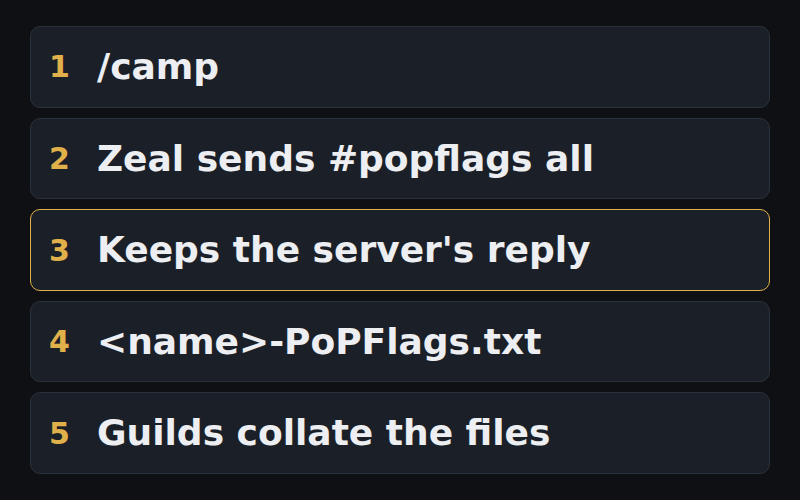
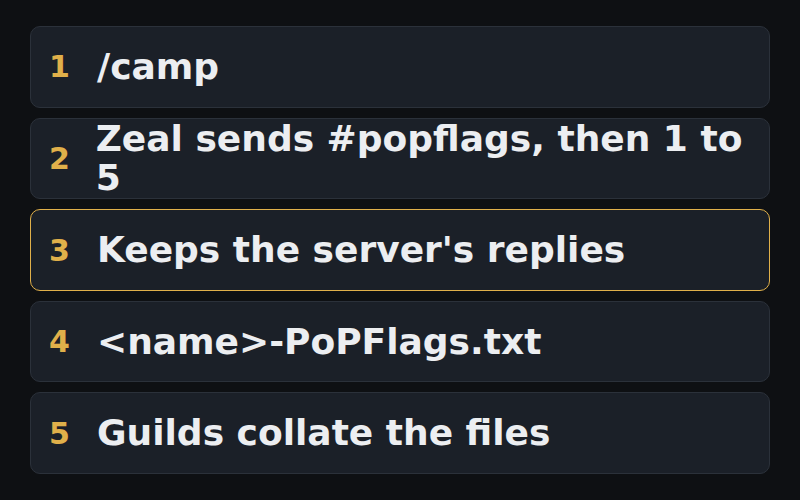
docs: PoP flags export — first in-game run, overview + tiers 1-5
The guild lead's first run wrote the file with one server line, "The all
option is restricted to server staff." The export now sends #popflags and
#popflags 1-5 (fork ef17b00, test-all 67bea01). Post, test cases and
DECISIONS §227 updated with the result and the server code it rests on.

Claude-Session: https://claude.ai/code/session_01Uq6P6RYLtiKKfy5UWjT7AX

Changed region(s): [[0.125, 0.24, 0.9375, 0.39], [0.6875, 0.48, 0.7812, 0.54]]

diff --git a/showcase/tools/hotkey-socials.py b/showcase/tools/hotkey-socials.py
@@ -48,10 +48,12 @@ md = [f"# {ME} test hotkeys — {BUILD}", "",
       "1. Install the test build: Mimic → Settings → Zeal → Test build → Install. Put `EUR.tga` from "
       "wolfpack.quest/zeal-icons in `EverQuest\\uifiles\\zeal\\tagicons\\` (for TI2).",
       f"2. **Log {ME} out to character select or close EQ** (EQ rewrites the file when you camp).",
-      f"3. Open `EverQuest\\{ME}_pq.proj.ini` in Notepad and find `[Socials]`. **Delete every `Page{first}…` "
-      f"to `Page{last}…` line** (this replaces the earlier page 7–10 file too), then paste everything from "
-      f"`{ME}_test_socials.ini` under `[Socials]` (skip its first line). No `[Socials]` but a "
-      f"`Socials_{ME}_pq.proj.ini` file? Paste there instead.",
+      f"3. Open `EverQuest\\{ME}_pq.proj.ini` in Notepad (not `UI_{ME}_pq.proj.ini`). The format is the same "
+      "`Page<P>Button<N>Name / Color / Line1-5` your other characters use under `[Socials]`.\n"
+      "   - **A new character has no `[Socials]` section** (only `[Friends]` and `[Ignored]`): paste the whole "
+      f"`{ME}_test_socials.ini`, its `[Socials]` line included, at the end of the file.\n"
+      f"   - **It already has `[Socials]`:** delete every `Page{first}…` to `Page{last}…` line, then paste "
+      "everything except the first line under `[Socials]`.",
       f"4. Log in, `/log on`, open Actions → Socials, page {first}. Press **LEAVE x5**, then **JOIN**: the "
       "test channel is now `/1`.", "",
       "Afterwards, camp or relog to get your normal channels back. **Rejoin the Zeal tag channel before any "

diff --git a/showcase/popflags-export/TEST-CASES.md b/showcase/popflags-export/TEST-CASES.md
@@ -1,11 +1,17 @@
 # Test cases: export #popflags on /camp
 
-For the `popflags-export` branch (`195433e`) or, once merged there, the fork's test-all build,
-https://github.com/davehess/Zeal/releases/tag/test-all-build. Nothing below has been run in game yet.
+For the `popflags-export` branch (`ef17b00`) or, once merged there, the fork's test-all build,
+https://github.com/davehess/Zeal/releases/tag/test-all-build.
+
+**First in-game run (2026-10-10, an earlier build that sent `#popflags all`):** the file was written with the character,
+timestamp and the server's one reply line, "The all option is restricted to server staff." So the camp hook, the capture,
+the colour filter and the file write all worked; the command was wrong. `all` needs server-staff status (the server's
+`zone/gm_commands/popflags.cpp`), so the export now sends `#popflags` (the overview) and `#popflags 1` to `5`, one a
+second. The run also showed the chat timestamp on the saved line, which is now removed. The cases below are for that build.
 
 **Common setup:** a character in game, standing in a safe spot, in the Planes of Power era server. Open the EverQuest folder
-to look for `<Name>-PoPFlags.txt`. Delete any old copy before each case. In a second window type `#popflags all` once by hand
-first and keep that chat output to compare against (the "reference reply").
+to look for `<Name>-PoPFlags.txt`. Delete any old copy before each case. Type `#popflags` and `#popflags 1` to `5` once by
+hand first and keep that chat output to compare against (the "reference reply").
 
 Mark each case: `[x]` pass, `[!]` fail (write what you saw under it).
 
@@ -15,7 +21,8 @@ Mark each case: `[x]` pass, `[!]` fail (write what you saw under it).
 - **Setup:** Zeal options, General tab, "Export data on /camp" ticked.
 - **Steps:** type `/camp`. Stay sitting until you reach character select.
 - **Expected:** `<Name>-PoPFlags.txt` exists. First lines are `Character`, `Timestamp`, `Command` (each with a tab), then `---`,
-  then the reply lines. The inventory, spellbook and Quarmy files are written as before.
+  then the reply lines: the "Planes of Power Progression" overview, then each tier. The inventory, spellbook and Quarmy files
+  are written as before.
 - **Result:** [ ] pass  [ ] fail
 
 ### 2. Option off writes nothing
@@ -26,15 +33,15 @@ Mark each case: `[x]` pass, `[!]` fail (write what you saw under it).
 
 ### 3. On-demand command
 - **Setup:** option off or on, standing in game.
-- **Steps:** `/outputfile popflags`, then wait about 3 seconds. Then `/outputfile popflags my_flags` after 10 seconds.
-- **Expected:** a chat line "Requesting #popflags...", the reply, then "PoP flags saved to: ...". The second run writes
-  `my_flags.txt` instead. `/out popflags` and `/output popflags` work as aliases.
+- **Steps:** `/outputfile popflags`, then wait about 8 seconds. Then `/outputfile popflags my_flags` after 15 seconds.
+- **Expected:** a chat line "Requesting #popflags...", the six replies one a second, then "PoP flags saved to: ...". The
+  second run writes `my_flags.txt` instead. `/out popflags` and `/output popflags` work as aliases.
 - **Result:** [ ] pass  [ ] fail
 
 ### 4. File matches the in-game reply
 - **Steps:** compare the file after the `---` line with the reference reply from setup.
-- **Expected:** every line of the reply is in the file, in order, with no player chat, combat, NPC speech or camp message mixed
-  in. Write down any line that is missing or extra.
+- **Expected:** every line of the reply is in the file, in order, without the chat timestamp, and with no player chat,
+  combat, NPC speech or camp message mixed in. Write down any line that is missing or extra.
 - **Result:** [ ] pass  [ ] fail
 
 ## Edge cases
@@ -42,14 +49,13 @@ Mark each case: `[x]` pass, `[!]` fail (write what you saw under it).
 ### 5. Character with no flags
 - **Setup:** a new character with no PoP flags.
 - **Steps:** `/outputfile popflags`.
-- **Expected:** if the server answers with a "no flags" style line, it is saved as it is. If it answers with nothing, no file
-  and "No reply to #popflags, nothing saved."
+- **Expected:** the overview says "Not started" for every tier and the tier sections list their steps; all of it is saved.
 - **Result:** [ ] pass  [ ] fail
 
 ### 6. Server does not answer
 - **Setup:** a server or zone where `#popflags` is not available, or send it with the network lagging.
 - **Steps:** `/outputfile popflags`.
-- **Expected:** after 3 seconds "No reply to #popflags, nothing saved.", no file written, no repeat requests.
+- **Expected:** after about 8 seconds "No reply to #popflags, nothing saved.", no file written, no repeat requests.
 - **Result:** [ ] pass  [ ] fail
 
 ### 7. Two characters in a row
@@ -60,12 +66,12 @@ Mark each case: `[x]` pass, `[!]` fail (write what you saw under it).
 ### 8. Camp cancelled by moving
 - **Steps:** `/camp`, then stand up and walk before the camp finishes.
 - **Expected (by design):** the file is still written, the same as the inventory, spellbook and Quarmy files, which are also
-  written when the camp starts. There is no partial file: it is written once, whole, 3 seconds after the request.
+  written when the camp starts. There is no partial file: it is written once, whole, about 8 seconds after the request.
 - **Result:** [ ] pass  [ ] fail
 
 ### 9. Pressing camp repeatedly
-- **Steps:** `/camp`, move to cancel, `/camp` again within 10 seconds, several times.
-- **Expected:** `#popflags` is sent once. Check the server did not print the reply more than once.
+- **Steps:** `/camp`, move to cancel, `/camp` again within 15 seconds, several times.
+- **Expected:** the six `#popflags` commands go out once. Check the server did not print the replies more than once.
 - **Result:** [ ] pass  [ ] fail
 
 ### 10. Chat during the window
@@ -76,7 +82,7 @@ Mark each case: `[x]` pass, `[!]` fail (write what you saw under it).
 
 ### 11. The reply colour
 - **Steps:** if case 4 shows lines missing, note the colour of the reply in chat and report it. The filter keeps lines in the
-  server's small colour ids and drops Zeal's user colours.
+  server's small colour ids and drops Zeal's user colours. (The first run kept the server's red line.)
 - **Expected:** all reply lines kept. A missing line means the reply uses a colour the filter drops.
 - **Result:** [ ] pass  [ ] fail
 
@@ -97,9 +103,10 @@ Mark each case: `[x]` pass, `[!]` fail (write what you saw under it).
 - **Expected:** the file name carries the host tag like the other exports, for example `<Name>-PoPFlags_<host>.txt`.
 - **Result:** [ ] pass  [ ] fail
 
-### 15. Zoning or logging out inside the 3 seconds
-- **Steps:** `/outputfile popflags`, then zone straight away. Also run it and `/camp` out within 3 seconds.
-- **Expected:** no crash. The file is written with whatever arrived (or nothing if nothing did).
+### 15. Zoning or logging out inside the 8 seconds
+- **Steps:** `/outputfile popflags`, then zone straight away. Also run it and `/camp` out within 8 seconds.
+- **Expected:** no crash. Commands not yet sent when you leave the game are skipped. The file is written with whatever
+  arrived (or nothing if nothing did).
 - **Result:** [ ] pass  [ ] fail
 
 ## Performance
@@ -107,5 +114,5 @@ Mark each case: `[x]` pass, `[!]` fail (write what you saw under it).
 ### 16. Busy raid chat
 - **Setup:** in a raid with heavy combat spam, framerate counter on.
 - **Steps:** `/outputfile popflags`.
-- **Expected:** no visible framerate dip during the 3 seconds, and the file stays small (the capture stops at 400 lines).
+- **Expected:** no visible framerate dip during the 8 seconds, and the file stays small (the capture stops at 400 lines).
 - **Result:** [ ] pass  [ ] fail

diff --git a/showcase/popflags-export/README.md b/showcase/popflags-export/README.md
@@ -2,9 +2,9 @@
 
 # Save your #popflags output with "Export data on /camp"
 
-*Fork branch `popflags-export` (`9b0186d`), based on Zeal 1.4.8. Status: draft; in the test-all build (`2c5e006`), not yet run in game.*
+*Fork branch `popflags-export` (`ef17b00`), based on Zeal 1.4.8. Status: draft; in the test-all build (`67bea01`). A first in-game run confirmed the capture and the file; the full flag output is next.*
 
-![Diagram: /camp sends #popflags all, Zeal keeps the server's reply for 3 seconds and writes <name>-PoPFlags.txt](diagram.png)
+![Diagram: /camp sends #popflags and #popflags 1-5, Zeal keeps the replies and writes <name>-PoPFlags.txt](diagram.png)
 
 This answers the suggestion thread 'Zeal "Export data on /camp" option to include a full #POPFLAGS output?'.
 
@@ -15,16 +15,17 @@ With "Export data on /camp" on, camping now also saves your Planes of Power flag
 Guilds collate PoP flags by hand in spreadsheets. The server already prints each character's flags with `#popflags`, but only into chat, where it scrolls away. A file per character, written at the end of the night, can be collected and merged by a script.
 
 **How**
-When you camp, Zeal sends `#popflags all` to the server once. For the next 3 seconds it keeps the server-coloured chat lines that arrive (player chat, combat and NPC speech are skipped), then writes them under three header lines (character, timestamp, command) and a `---` line. The reply still shows in your chat. Nothing waits on the server, so the game never stalls. If the server sends nothing, no file is written. Requests are limited to one per 10 seconds, and are skipped when the camp is not going ahead. About 95 lines in `outputfile.cpp` and `outputfile.h`, plus README and CHANGELOG. No new setting, but players who already have "Export data on /camp" ticked will start sending `#popflags all` when they camp.
+`#popflags all` is limited to server staff, so Zeal asks the way a player would: `#popflags` (the overview), then `#popflags 1` to `5`, one a second. Until 3 seconds after the last one it keeps the server-coloured chat lines that arrive (player chat, combat and NPC speech are skipped), drops the chat timestamp, and writes them under three header lines (character, timestamp, command) and a `---` line. The replies still show in your chat. Nothing waits on the server, so the game never stalls. If the server sends nothing, no file is written. A new request needs 15 seconds since the last, and none is sent when the camp is not going ahead. About 120 lines in `outputfile.cpp` and `outputfile.h`, plus README and CHANGELOG. No new setting, but players who already have "Export data on /camp" ticked will start sending these six commands when they camp.
 
-We have not seen the real `#popflags` text. The file keeps the reply line for line so it stays correct whatever the server prints.
+The file keeps the server's reply line for line, so it stays correct if the server changes its wording.
 
 **How tested**
-- The capture, the once-per-10-seconds rule, the empty-reply case and the file layout ran against a stand-in on Linux.
-- clang-format with Zeal's style is clean on the new lines.
-- The whole fork is built by GitHub from test-all; nothing has run in game yet. The in-game plan is in [`TEST-CASES.md`](TEST-CASES.md). The main thing to confirm is that the server's reply arrives in the small server colours Zeal keeps.
+- In game, on an earlier build that sent `#popflags all`: camping wrote `<name>-PoPFlags.txt` with the header and the server's one reply ("The all option is restricted to server staff."). That proved the camp hook, the colour filter and the file; it is also how we found `all` is staff-only.
+- The server's own `#popflags` code was read to pick the player commands and to check every reply line uses a colour the filter keeps.
+- The capture, the timing rules, the empty-reply case, the file layout and the timestamp strip ran against a stand-in on Linux; clang-format with Zeal's style is clean.
+- The whole fork is built by GitHub from test-all. The remaining cases are in [`TEST-CASES.md`](TEST-CASES.md).
 
-**Try it:** in the fork's test-all build (https://github.com/davehess/Zeal/releases/tag/test-all-build), `2c5e006` or later, then `/outputfile popflags`.
+**Try it:** in the fork's test-all build (https://github.com/davehess/Zeal/releases/tag/test-all-build), `67bea01` or later, then `/outputfile popflags`.
 
 **Pull request:** _link added when it is filed._
 
